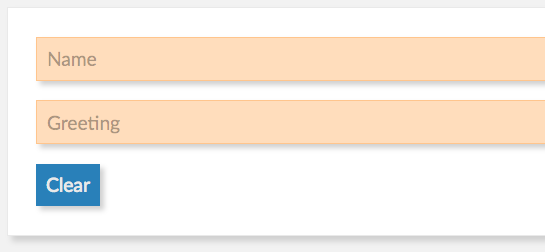
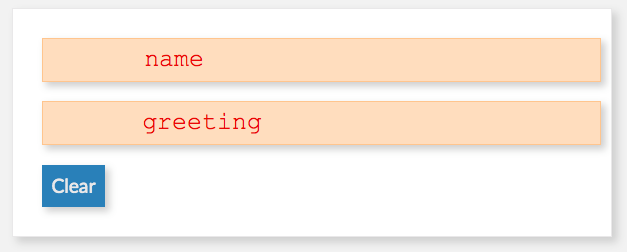
uebung 2 aktualisiert

diff --git a/2019_react_2tage.html b/2019_react_2tage.html
@@ -971,18 +971,17 @@ class HelloMessage extends React.Component {
       <section>
         <h3>Schritte</h3>
         <h4>Erweitere deine erste React-Komponente im workspace-Ordner</h4>
-        <ul>
-          <li>benenne deine Komponente in
+        <ol>
+          <li>benenne deine HelloMessage-Komponente (und das HelloMessage-Modul) in
             <code>GreetingDetail</code> um
           <li>du brauchst zwei Eingabefelder, die
             <code>name</code> und
             <code>greeting</code> im Zustand der Komponente setzen
           <li>Erweitere deine Komponente so, dass man von außen Properties übergeben kann, die den Zustand
-            initialisieren
-          <li>Optionaler Schritt: Kannst du die Komponente so bauen, dass du mit einer einzigen update-Methode beide
-            Felder
-            im Zustand updaten kannst?
-        </ul>
+            initialisieren</li>
+          <li>Füge einen "Clear"-Button hinzu, der den Inhalt beider Eingabefelder löscht. Das entsprechende
+            Event auf dem Button heißt <code>onClick</code></li>
+        </ol>
         <img src="images/screenshot-name-greeting.png" />
       </section>
 
